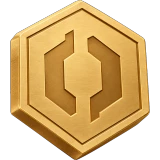
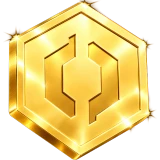
Nová mince (coin-hex) všude, kde je symbol jednoho coinu
Claude-Session: https://claude.ai/code/session_017NTkejaEJNNuxiLW1kjkT4

diff --git a/assets/css/styles.css b/assets/css/styles.css
@@ -1441,9 +1441,9 @@ main .rankwin p { color: inherit; }
   background: url(../img/heart.svg?v=1) center / contain no-repeat; filter: drop-shadow(0 1px 2px rgba(160,11,61,.35)); }
 .heart-ico--xl { width: 46px; height: 42px; margin: 0 8px 4px; }
 .coin-ico, .app__fame .coin-ico, .rkp-val .coin-ico { border-radius: 0; box-shadow: none;
-  background: url(../img/coin-hex-sm.webp?v=1) center / contain no-repeat; filter: drop-shadow(0 1px 1.5px rgba(120,80,0,.35)); }
+  background: url(../img/coin-hex-sm.webp?v=2) center / contain no-repeat; filter: drop-shadow(0 1px 1.5px rgba(120,80,0,.35)); }
 .coin3d, .coin3d--stack, .coin3d--skill { width: 92px; height: 92px; border-radius: 0; box-shadow: none; isolation: isolate;
-  background: url(../img/coin-hex.webp?v=1) center / contain no-repeat; filter: drop-shadow(0 14px 16px rgba(120,80,0,.35)); }
+  background: url(../img/coin-hex.webp?v=2) center / contain no-repeat; filter: drop-shadow(0 14px 16px rgba(120,80,0,.35)); }
 .coin3d--stack { filter: drop-shadow(0 5px 0 #B4810F) drop-shadow(0 5px 0 #8C6100) drop-shadow(0 14px 16px rgba(120,80,0,.35)); }
 .coin3d--skill { filter: hue-rotate(105deg) saturate(1.15) drop-shadow(0 14px 16px rgba(10,110,70,.35)); }
 .coin3d span { position: absolute; right: -10px; bottom: -2px; padding: 3px 9px; border-radius: 999px; background: var(--ink); color: #fff;
@@ -1596,7 +1596,7 @@ main .rankwin p { color: inherit; }
 .perks--chips li::before { left: 10px; top: 50%; translate: 0 -50%; width: 16px; height: 16px; }
 .perks--chips b { font-size: 14px; }
 @media (max-width: 900px) { .reg__copy { text-align: center; } .reg__copy .final__duo { margin: 0 auto 6px; } .final--reg .lede { margin-inline: auto; } .perks--chips { justify-content: center; } }
-.perks--chips li::before { border-radius: 0; box-shadow: none; background: url(../img/coin-hex-sm.webp?v=1) center / contain no-repeat; }
+.perks--chips li::before { border-radius: 0; box-shadow: none; background: url(../img/coin-hex-sm.webp?v=2) center / contain no-repeat; }
 @media (max-width: 680px) {
   .trio--4 { display: flex; max-width: none; overflow-x: auto; scroll-snap-type: x mandatory; gap: 12px; margin-inline: -20px; padding: 6px 20px 18px; scrollbar-width: none; }
   .trio--4::-webkit-scrollbar { display: none; }
@@ -2202,7 +2202,7 @@ main .rankwin p { color: inherit; }
 .pack__pile { display: flex; align-items: flex-end; justify-content: center; height: 118px; margin: -4px 0 6px; padding-bottom: 4px;
   border-radius: 14px; background: radial-gradient(70% 60% at 50% 85%, #FFF3D1, rgba(255,243,209,0) 70%); }
 .pile__stack { display: flex; flex-direction: column-reverse; margin: 0 -9px; }
-.pile__stack i { display: block; width: 40px; height: 40px; margin-top: -32px; background: url(../img/coin-hex-sm.webp?v=1) center / contain no-repeat;
+.pile__stack i { display: block; width: 40px; height: 40px; margin-top: -32px; background: url(../img/coin-hex-sm.webp?v=2) center / contain no-repeat;
   filter: drop-shadow(0 2px 1.5px rgba(120,80,0,.35)); }
 .pile__stack i:last-child { margin-top: 0; }
 .pack .pack__coins .coin-ico { width: 18px; height: 18px; }
@@ -2210,7 +2210,7 @@ main .rankwin p { color: inherit; }
 
 /* v41 — loose 3D coin heap */
 .pack__pile.heap { position: relative; display: block; height: 124px; overflow: visible; }
-.heap i { position: absolute; background: url(../img/coin-hex-sm.webp?v=1) center / contain no-repeat; transform-origin: 50% 80%; }
+.heap i { position: absolute; background: url(../img/coin-hex-sm.webp?v=2) center / contain no-repeat; transform-origin: 50% 80%; }
 .pack__pile.heap { overflow: hidden; border-radius: 14px; }
 
 /* v42 — package piles from the illustrated set; size scales with the package */

diff --git a/index.html b/index.html
@@ -18,7 +18,7 @@
   <link rel="preload" as="font" type="font/woff2" href="assets/fonts/archivo-latin-ext-standard-normal.woff2" crossorigin>
   <link rel="preload" as="image" href="assets/img/candle-green.webp?v=202610201838">
   <link rel="preload" as="image" href="assets/img/candle-red.webp?v=202610201838">
-  <link rel="stylesheet" href="assets/css/styles.css?v=202610271230">
+  <link rel="stylesheet" href="assets/css/styles.css?v=202610271250">
   <script>
     // Hide hero pieces until the intro animation takes over; fail open after 3.5 s.
     (function () {
@@ -133,7 +133,7 @@
         <div class="wrap">
           <!-- ============ 2. ODMĚNY: nadpis → symboly → text → odměny → coins ============ -->
           <div class="flow" id="jak" role="img" aria-label="Za coins si koupíš vstup do kola, za vyhrané kolo dostaneš srdíčko, za srdíčka a doplatek si vybereš odměnu.">
-            <div class="flow__node flow__node--coin"><img src="assets/img/coin-hex.webp?v=1" alt="" width="640" height="640"><b class="flow__badge">10</b></div>
+            <div class="flow__node flow__node--coin"><img src="assets/img/coin-hex.webp?v=2" alt="" width="640" height="640"><b class="flow__badge">10</b></div>
             <span class="flow__arrow" aria-hidden="true"><i></i></span>
             <div class="flow__node flow__node--play"><img class="play3d" src="assets/img/play-3d.svg?v=3" alt="" width="240" height="240"></div>
             <span class="flow__arrow" aria-hidden="true"><i></i></span>
